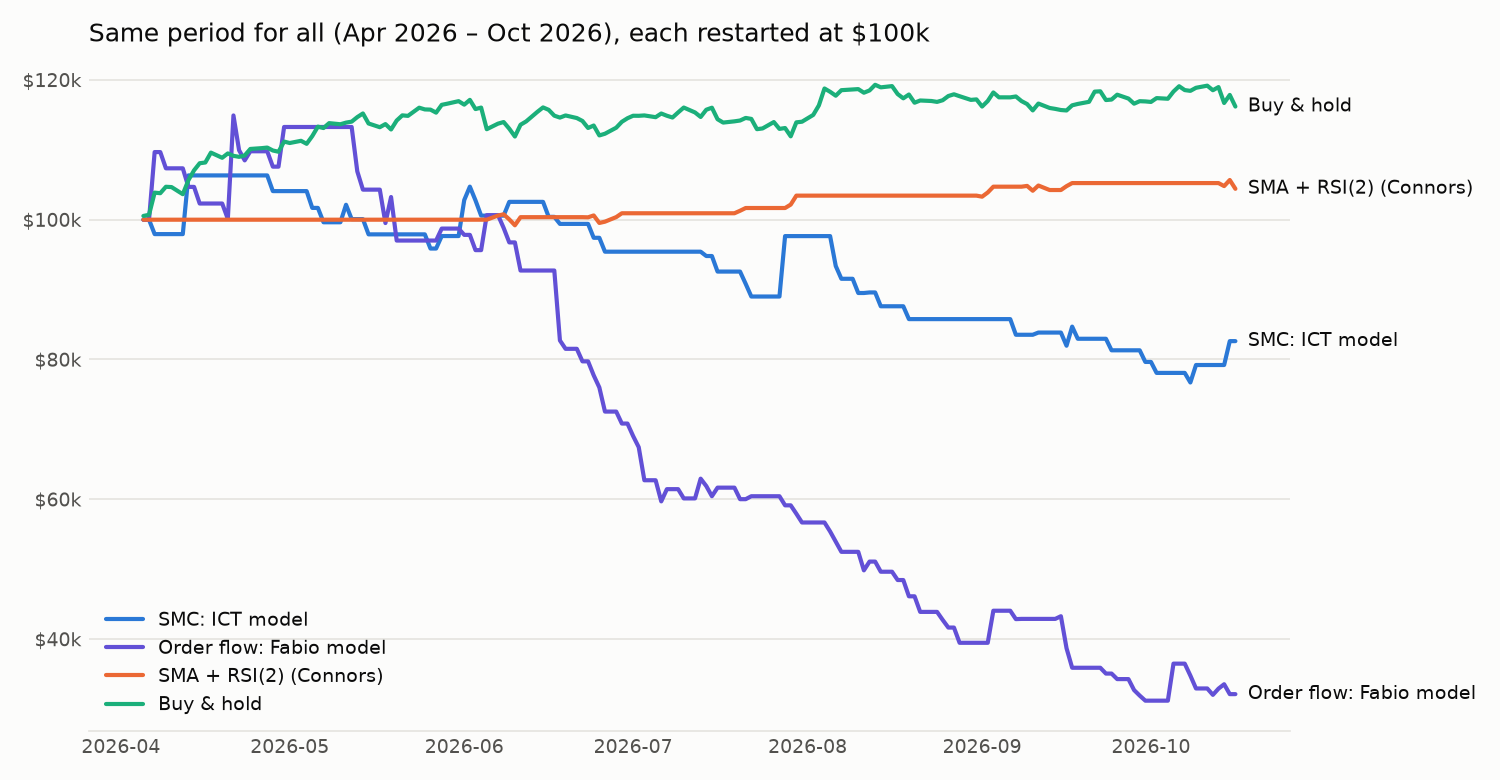
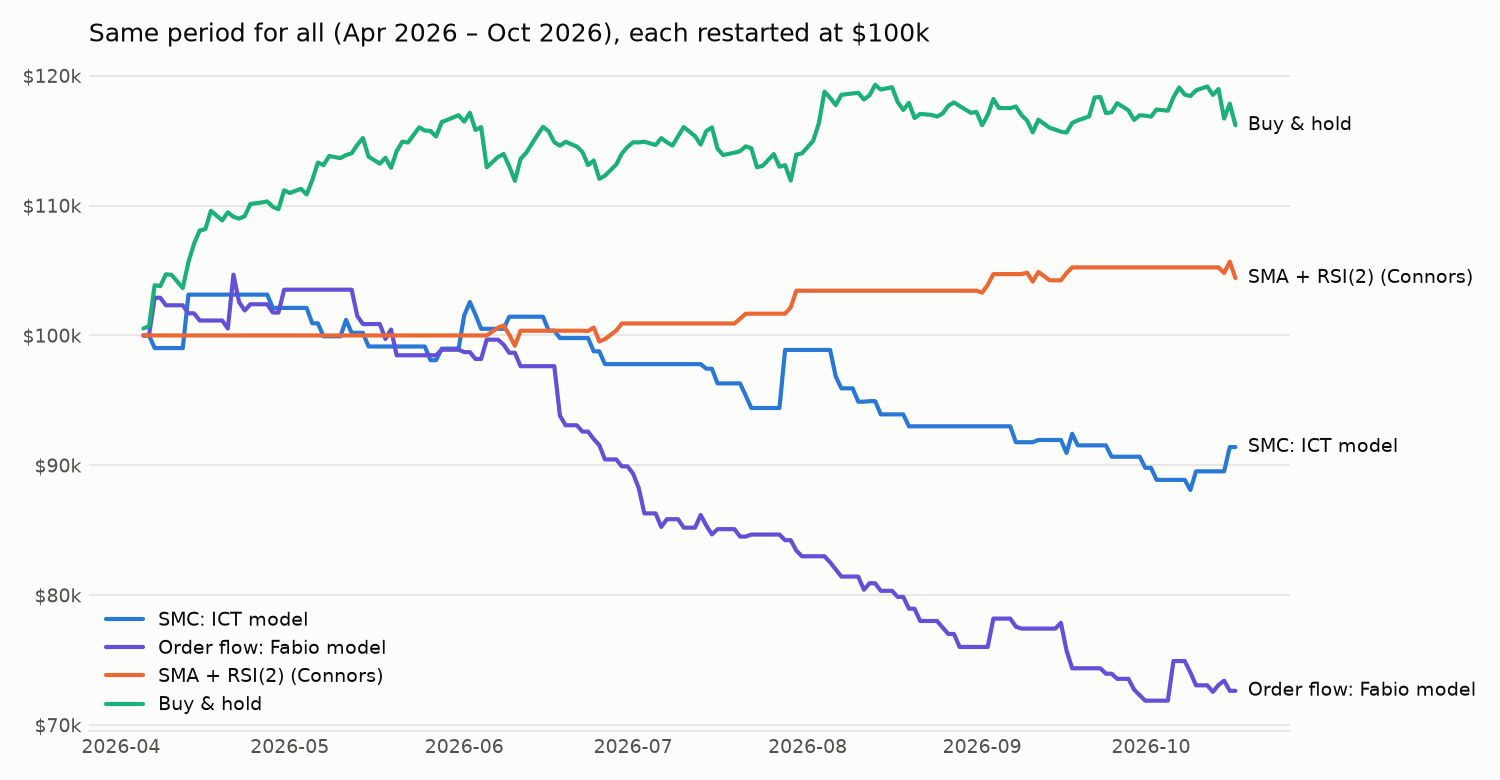
Risk per trade from each strategy's sources: SMC 1%, order flow 0.5%

diff --git a/backtest/strategies/smc.py b/backtest/strategies/smc.py
@@ -13,7 +13,7 @@ Trader's (ICT) concepts, coded step by step. Runs on 1-minute bars.
     8. Target     the nearest untaken liquidity level at least 1R away
 
 (Longs described; shorts are the mirror image.) Entries 08:00-11:00 ET, one
-position at a time, 2% risk per trade, everything flat by 16:00 ET.
+position at a time, 1% risk per trade, everything flat by 16:00 ET.
 
 5-minute, 1-hour and 4-hour bars are built from COMPLETED 1-minute bars, so
 on every bar the strategy only knows what a trader watching live would know.
@@ -47,7 +47,7 @@ class SMCConfig:
     swing_len: int = 2             # a swing = 2 lower highs (higher lows) on each side, all timeframes
     use_bias: bool = True          # 4h structure filter
     min_target_rr: float = 1.0     # nearest liquidity at least this many R away
-    risk_pct: float = 2.0
+    risk_pct: float = 1.0
     max_qty: int = 100
     news_dates: tuple = ()
 

diff --git a/backtest/strategies/orderflow.py b/backtest/strategies/orderflow.py
@@ -22,7 +22,7 @@ MEAN REVERSION MODEL (failed breakout -> back to balance), longs described:
     6. Target    the balance POC (previous day's POC), >= 1R away
 
 Shorts are the mirror image. Entries 08:00-11:00 ET, one position at a time,
-2% risk per trade (1-100 contracts), flat by 16:00 ET. Every value used on a bar is known at that bar's
+0.5% risk per trade (1-100 contracts), flat by 16:00 ET. Every value used on a bar is known at that bar's
 close. ORDERFLOW_RULES.md lists the source of each rule and marks the
 choices made where the sources don't give numbers.
 """
@@ -61,7 +61,7 @@ class FabioConfig:
     min_target_rr: float = 1.0
     poc_lookback_days: int = 20    # trend target: POCs of this many previous days
     swing_len: int = 2
-    risk_pct: float = 2.0
+    risk_pct: float = 0.5
     max_qty: int = 100
     news_dates: tuple = ()
 

diff --git a/README.md b/README.md
@@ -58,14 +58,18 @@ statistics are in [`docs/METHODOLOGY.md`](docs/METHODOLOGY.md).
 |---|---|---|---|---|---|---|
 | **Buy & hold** | Jan 2021 – Oct 2026 | 1 | – | **+76.9%** | 0.69 | −23.7% |
 | SMA + RSI(2) (Connors) | Jan 2021 – Oct 2026 | 63 | – | +25.7% | **0.74** | **−8.5%** |
-| SMC: ICT model | Jan 2021 – Oct 2026 | 355 | −0.08 (−0.24 to +0.08) | −54.5% | −0.43 | −65.0% |
-| Order flow: Fabio model | Apr 2026 – Oct 2026 | 124 | −0.46 (−0.76 to −0.14) | −67.9% | −3.45 | −72.9% |
+| SMC: ICT model | Jan 2021 – Oct 2026 | 355 | −0.08 (−0.24 to +0.08) | −28.9% | −0.42 | −39.3% |
+| Order flow: Fabio model | Apr 2026 – Oct 2026 | 124 | −0.46 (−0.76 to −0.14) | −27.4% | −3.68 | −31.3% |
 
 - **R** is the ratio of the trade's profit to the amount risked. The 95%
   confidence interval comes from 10,000 bootstrap resamples of the trades.
   An interval that includes zero means the sample can't tell an edge from luck.
-- Both day-trading models risk 2% of equity per trade (1–100 contracts).
-  Average R doesn't depend on position size; return, Sharpe and drawdown do.
+- Each day-trading model risks what its own sources recommend: 1% of equity
+  per trade for SMC (the common "1% rule", which ICT money-management guides
+  give as a maximum) and 0.5% for order flow (the top of Fabio's 0.25–0.5%).
+  These sizes were set after the first run; they change only the dollar
+  figures, not which trades were taken or their R. So compare **average R**
+  across the two models; return, Sharpe and drawdown depend on position size.
   Buy-and-hold and RSI(2) have no stop, so no R.
 - Order-flow data costs much more than candle data for SMC so that test covers
   6.5 months instead of 5.8 years.
@@ -96,16 +100,15 @@ and minutes in a random direction.
 
 | | Trades | Avg R (95% CI) | Return | Sharpe |
 |---|---|---|---|---|
-| Train, 2021–2024 | 234 | −0.10 (−0.30 to +0.12) | −45.2% | −0.49 |
-| Test, 2025 – Oct 2026 | 121 | −0.06 (−0.32 to +0.22) | −17.1% | −0.41 |
-| **Full** | **355** | **−0.08 (−0.24 to +0.08)** | −54.5% | −0.43 |
+| Train, 2021–2024 | 234 | −0.10 (−0.30 to +0.12) | −23.2% | −0.47 |
+| Test, 2025 – Oct 2026 | 121 | −0.06 (−0.32 to +0.22) | −7.5% | −0.41 |
+| **Full** | **355** | **−0.08 (−0.24 to +0.08)** | −28.9% | −0.42 |
 
 The rules lost money in both the training period and the held-out test
 period. The confidence interval includes zero, so on its own this is "no
 detectable edge"; together with the random-entry control, the signals added
-nothing. Win rate 34%, profit factor 0.80. The large drawdown (−65%) comes
-mostly from risking 2% per trade on a losing strategy; at 0.5% per trade the
-same trades would have drawn down roughly a quarter as much.
+nothing. Win rate 34%, profit factor 0.84. At 1% risk per trade the account fell
+28.9%, with a maximum drawdown of −39.3%.
 
 Where setups dropped out at each step: see the [setup funnels](docs/METHODOLOGY.md#setup-funnels).
 
@@ -113,9 +116,9 @@ Where setups dropped out at each step: see the [setup funnels](docs/METHODOLOGY.
 
 124 trades from April 5 to October 16, 2026 averaged **−0.46R** per trade
 after costs (95% CI −0.76 to −0.14), the only strategy whose loss is
-statistically clear. Win rate 19%, profit factor 0.55. At 2% risk per trade,
-losing about half a risk unit per trade cost 68% of the account in six and a
-half months (max drawdown −73%).
+statistically clear. Win rate 19%, profit factor 0.51. At 0.5% risk per trade,
+losing about half a risk unit per trade cost 27% of the account in six and a
+half months (max drawdown −31%).
 
 | | Avg R per trade |
 |---|---|
@@ -169,8 +172,8 @@ April 5 – October 16, 2026, the period covered by the order-flow data:
 |---|---|---|---|---|---|
 | **Buy & hold** | **+16.2%** | **1.94** | −5.1% | 0 | – |
 | SMA + RSI(2) (Connors) | +4.4% | 1.54 | −1.8% | 8 | – |
-| SMC: ICT model | −17.4% | −1.17 | −27.9% | 42 | −0.21 |
-| Order flow: Fabio model | −67.9% | −3.45 | −72.9% | 124 | −0.46 |
+| SMC: ICT model | −8.6% | −1.19 | −14.6% | 42 | −0.21 |
+| Order flow: Fabio model | −27.4% | −3.68 | −31.3% | 124 | −0.46 |
 
 ![The same six months for all four strategies, each restarted at $100k](docs/equity_orderflow_window.png)
 

diff --git a/STRATEGY_RULES.md b/STRATEGY_RULES.md
@@ -39,7 +39,7 @@ Longs are described; shorts are the exact mirror.
 | Entry window | the 1m confirmation must be between 08:00 and 11:00 ET (fill before 11:00) | Model 2022 is usually executed "inside the London or New York morning killzones"; the exact hours are a project setting |
 | Setup life | ends at the CME day boundary (18:00 ET), when it's used for an entry decision (even if blocked), or when price makes a new low after step 4 (the sweep low would be the stop) | **(choice)** |
 | Positions | one at a time, no daily cap; closed at 16:00 ET if still open | no overnight holds is a **(choice)** for a day-trading test |
-| Risk | 2% of equity per trade in the reported run, 1–100 MES contracts | project setting |
+| Risk | 1% of equity per trade, 1–100 MES contracts | the common "1% rule"; [a guide to ICT money management](https://www.brokerxplorer.com/article/ict-money-management-protecting-capital-and-maximizing-gains-6496) says ICT traders typically risk 1–2% and advises "a maximum of 1% risk every single trade". The 100-contract cap only stops tiny stops from producing huge positions. |
 | Timeframes | 4h bias, 1h liquidity, 5m structure, 1m entry, all built from completed 1-minute bars | as above |
 
 ## Left out on purpose

diff --git a/docs/METHODOLOGY.md b/docs/METHODOLOGY.md
@@ -78,8 +78,8 @@ exploration, not as new rules.
 | **SMA + RSI(2) (Connors)** | Daily bars. Long when the close is above its 200-day SMA and RSI(2) < 10; short when below the 200-day SMA and RSI(2) > 90. Flat between trades. Sized at 100% of equity. From Connors & Alvarez, *Short Term Trading Strategies That Work* (2008); Pine version: `pine/sma_rsi_daily.pine`. | none | close back across the 5-day SMA |
 | **Buy & hold** | Buy at the start, hold to the end, roll each quarter. Sized so notional ≈ starting capital (no leverage). | none | none |
 
-The SMC strategy day trades: one position at a time, 2% of equity risked
-per trade in the reported run (capped at 100 contracts), and anything still open is closed at
+The SMC strategy day trades: one position at a time, 1% of equity risked
+per trade (capped at 100 contracts), and anything still open is closed at
 16:00 ET. There is no daily trade cap beyond that. It runs on 1-minute bars
 because its entry is a 1-minute confirmation; its 5-minute, hourly and
 4-hour bars are built from completed 1-minute bars, so it only ever sees what

diff --git a/ORDERFLOW_RULES.md b/ORDERFLOW_RULES.md
@@ -69,7 +69,7 @@ Longs described; shorts are the mirror image.
 | Entry window | 08:00–11:00 ET for both models | project setting. The source says the trend model "works best in the New York session" and the mean-reversion model in London or quiet conditions; one window keeps the comparison with SMC fair **(choice)** |
 | Setup life | ends at the CME day boundary, on invalidation, or when it's used for an entry decision | **(choice)** |
 | Positions | one at a time; closed at 16:00 ET if still open | **(choice)** |
-| Risk | 2% of equity per trade, 1–100 contracts | project setting, the same as the SMC run so the two are on one scale; the source itself uses "0.25% to 0.5%" |
+| Risk | 0.5% of equity per trade, 1–100 contracts | the top of the source's range: "Keep risk small, 0.25% to 0.5% of the account per trade." The 100-contract cap only stops tiny stops from producing huge positions. |
 
 ## Left out on purpose
 
